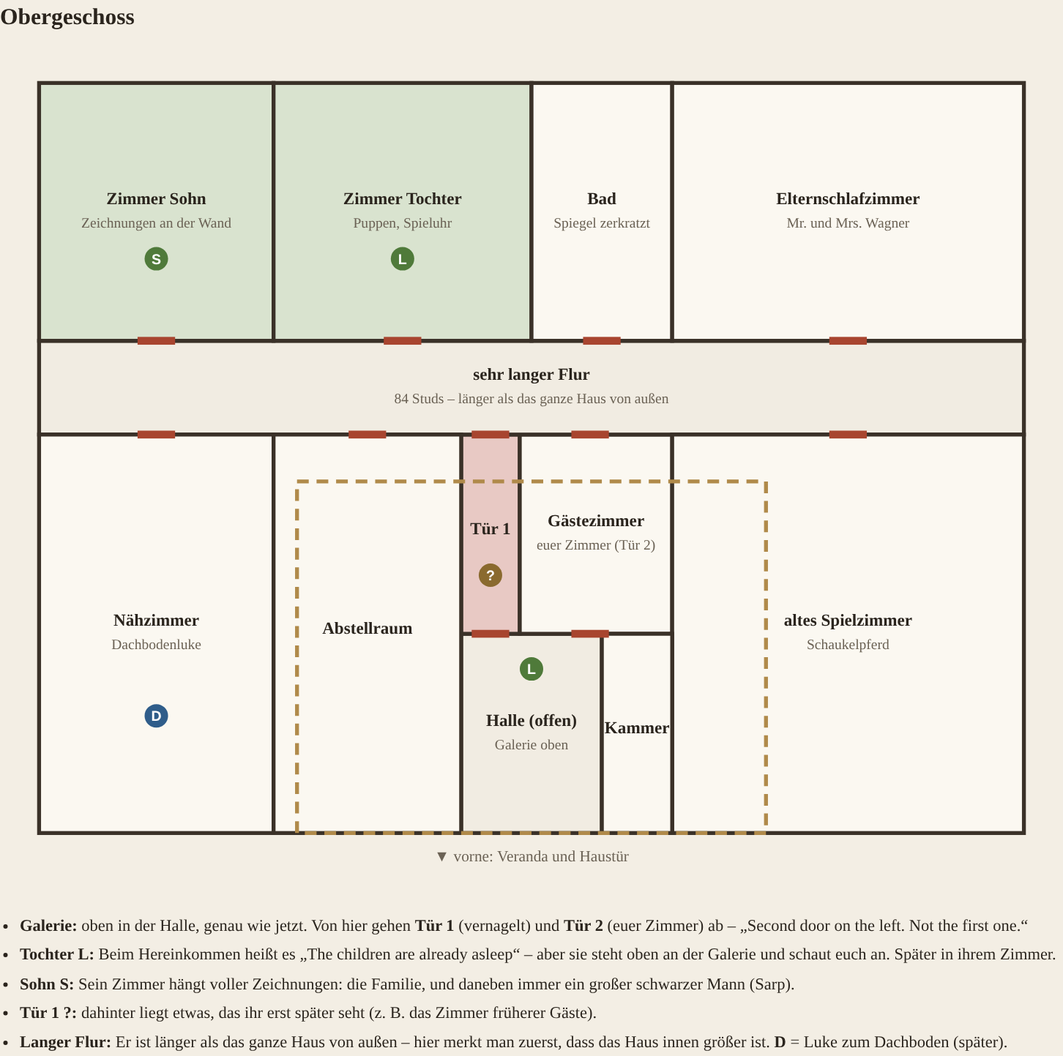
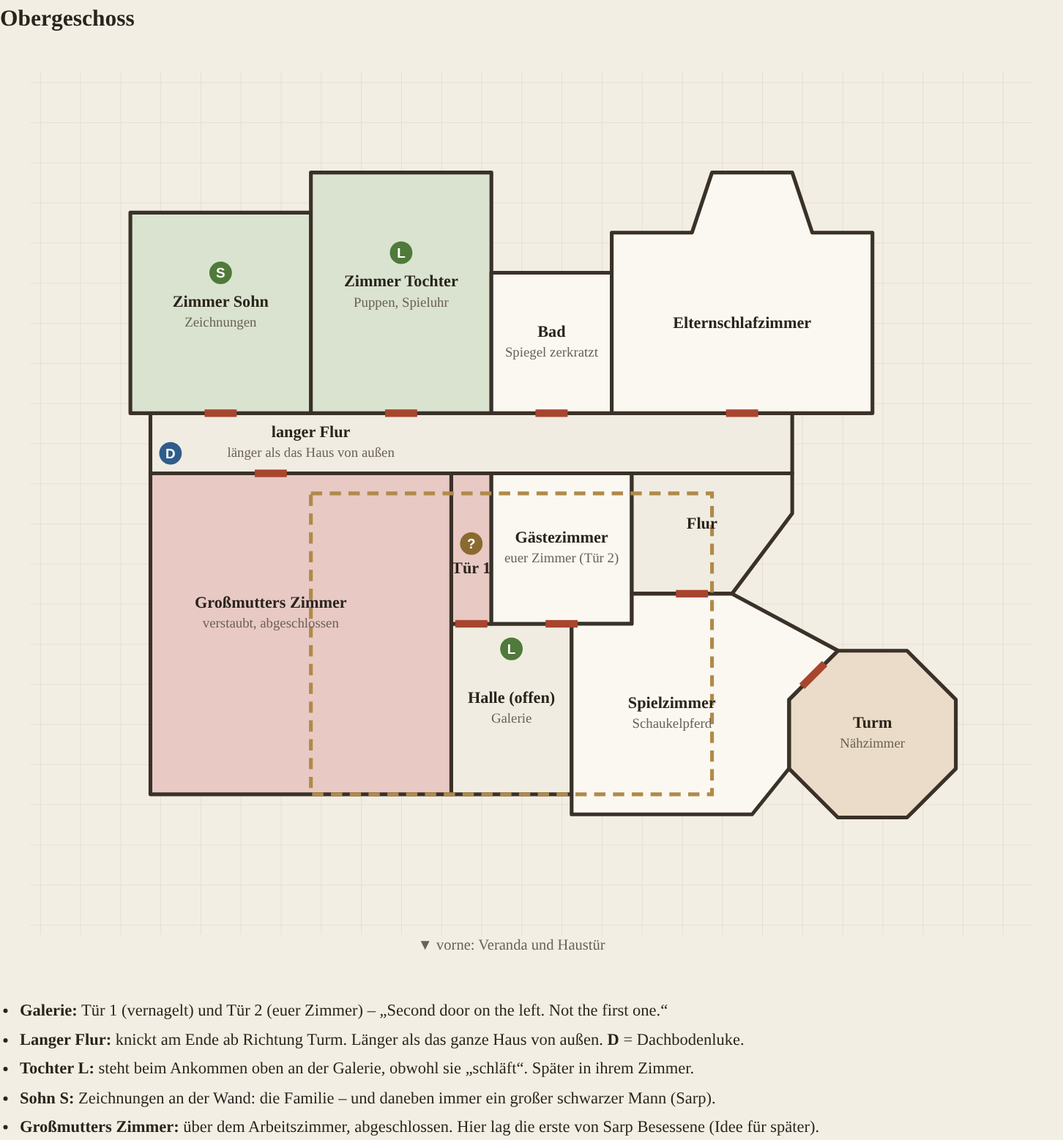
Docs: floor plan v2 with an irregular shape (tower, bays, hexagonal conservatory, round ritual room)
Claude-Session: https://claude.ai/code/session_01GviBXdi7ntk81fPhdjJLgL

Changed region(s): [[0.031, 0.0624, 0.9917, 0.842], [0.0, 0.8732, 0.9607, 0.9979], [0.6818, 0.1247, 0.7438, 0.1559]]

diff --git a/docs/konzept/hausplan.html b/docs/konzept/hausplan.html
@@ -3,12 +3,12 @@
 <title>Hausplan Wagner</title>
 <style>
 :root { --bg:#f3eee4; --ink:#2a241d; --muted:#6b6255; --grid:#e3dccd; --wall:#3a3128; --room:#fbf8f1; --hall:#efe1c4; --open:#f1ece2;
-  --secret:#e8c9c4; --kids:#d9e3cf; --door:#a8452f; --kid:#4f7a3a; --stairs:#2f5d8a; --item:#8a6a2f; --exit:#a8452f; --outer:#b08a4a; }
+  --secret:#e8c9c4; --kids:#d9e3cf; --glass:#d6e6ea; --tower:#eadcc8; --door:#a8452f; --kid:#4f7a3a; --stairs:#2f5d8a; --item:#8a6a2f; --exit:#a8452f; --outer:#b08a4a; }
 @media (prefers-color-scheme: dark) { :root { --bg:#191612; --ink:#ece4d6; --muted:#a89d8c; --grid:#2a251f; --wall:#c9bba4; --room:#221e19;
-  --hall:#3a3020; --open:#1e1a15; --secret:#4a2a26; --kids:#26331f; --door:#d76d52; --kid:#7fb062; --stairs:#6fa3d6; --item:#c9a35a; --exit:#d76d52; --outer:#c9a35a; } }
+  --hall:#3a3020; --open:#1e1a15; --secret:#4a2a26; --kids:#26331f; --glass:#1f3036; --tower:#33291d; --door:#d76d52; --kid:#7fb062; --stairs:#6fa3d6; --item:#c9a35a; --exit:#d76d52; --outer:#c9a35a; } }
 body { margin:0; background:var(--bg); color:var(--ink); font:15px/1.5 Georgia, serif; }
 main { max-width:980px; margin:0 auto; padding:24px 16px 48px; }
-h1 { font-size:28px; margin:0 0 4px; } h2 { font-size:21px; margin:32px 0 8px; }
+h1 { font-size:28px; margin:0 0 4px; } h2 { font-size:21px; margin:28px 0 6px; }
 .lead { color:var(--muted); margin:0 0 16px; }
 .plan svg { width:100%; height:auto; display:block; }
 text.room { font:bold 13px Georgia, serif; fill:var(--ink); text-anchor:middle; }
@@ -19,25 +19,22 @@ text.front { font:12px Georgia, serif; fill:var(--muted); text-anchor:middle; }
 .box { border:1px solid var(--grid); background:var(--room); border-radius:8px; padding:12px 16px; margin:12px 0; }
 .legend span { display:inline-block; margin:0 14px 4px 0; } .sw { display:inline-block; width:14px; height:14px; vertical-align:-2px; margin-right:5px; border:1px solid var(--wall); }
 </style></head><body><main>
-<h1>Haus der Wagners – Bauplan (Entwurf)</h1>
+<h1>Haus der Wagners – Bauplan (Entwurf 2)</h1>
 <p class="lead">Keller, Erdgeschoss, Obergeschoss. Ein Kästchen = 4 Studs, ein Stockwerk ist 10 Studs hoch.</p>
-<div class="box"><b>Innen größer als außen:</b> Von außen bleibt das Haus wie jetzt (40 × 30, gestrichelter Rahmen).
-Wenn die Tür hinter euch zufällt, wird es kurz schwarz, und ihr steht im großen Haus – in einer Eingangshalle, die genau gleich aussieht.
-Erst wenn man weitergeht (Flur, Wohnzimmer, oben der lange Flur), merkt man, dass das Haus innen viel größer ist.
-<br><span style="color:var(--muted)">Andere Möglichkeit: das Haus schon von außen so groß bauen (dann wäre es von außen riesig und der Effekt weg). Ich empfehle die erste Variante.</span></div>
-<div class="legend"><span><i class="sw" style="background:var(--hall)"></i>Eingangshalle</span><span><i class="sw" style="background:var(--kids)"></i>Kinderzimmer</span>
-<span><i class="sw" style="background:var(--secret)"></i>geheim / verboten</span><span><i class="sw" style="background:var(--door);border:0"></i>Tür / Durchgang</span>
+<div class="box"><b>Innen größer als außen:</b> Von außen bleibt das Haus wie jetzt (gestrichelter Rahmen). Wenn die Tür hinter euch zufällt, wird es kurz schwarz,
+und ihr steht im großen Haus – in einer Eingangshalle, die genau gleich aussieht. Je weiter man geht, desto mehr merkt man, wie groß es innen ist.</div>
+<div class="legend"><span><i class="sw" style="background:var(--hall)"></i>Eingangshalle</span><span><i class="sw" style="background:var(--tower)"></i>Turm</span>
+<span><i class="sw" style="background:var(--glass)"></i>Glas</span><span><i class="sw" style="background:var(--kids)"></i>Kinderzimmer</span>
+<span><i class="sw" style="background:var(--secret)"></i>geheim / verboten</span><span><i class="sw" style="background:var(--door);border:0"></i>Tür</span>
 <span><i class="sw" style="border:2px dashed var(--outer);background:none"></i>Größe von außen</span></div>
-<section><h2>Erdgeschoss</h2><div class="plan"><svg viewBox="0 0 816 656" role="img" aria-label="Erdgeschoss"><defs><pattern id="gErd" width="36" height="36" patternUnits="userSpaceOnUse"><path d="M 36 0 L 0 0 0 36" fill="none" stroke="var(--grid)" stroke-width="1"/></pattern></defs><rect x="30" y="30" width="756" height="576" fill="url(#gErd)"/><rect x="354" y="453" width="108" height="153" fill="var(--hall)" stroke="var(--wall)" stroke-width="3"/><text x="408.0" y="523.5" class="room">Eingangshalle</text><text x="408.0" y="541.5" class="sub">wie jetzt</text><rect x="462" y="336" width="324" height="270" fill="var(--room)" stroke="var(--wall)" stroke-width="3"/><text x="624.0" y="465.0" class="room">Wohnzimmer</text><text x="624.0" y="483.0" class="sub">Kamin, verhängte Möbel</text><rect x="516" y="30" width="270" height="306" fill="var(--room)" stroke="var(--wall)" stroke-width="3"/><text x="651.0" y="177.0" class="room">Esszimmer</text><text x="651.0" y="195.0" class="sub">Tisch für 7 Personen</text><rect x="300" y="192" width="216" height="144" fill="var(--room)" stroke="var(--wall)" stroke-width="3"/><text x="408.0" y="258.0" class="room">Küche</text><text x="408.0" y="276.0" class="sub">Kellertür K</text><rect x="300" y="336" width="162" height="117" fill="var(--open)" stroke="var(--wall)" stroke-width="3"/><text x="381.0" y="394.5" class="room">Flur hinten</text><rect x="300" y="30" width="216" height="162" fill="var(--room)" stroke="var(--wall)" stroke-width="3"/><text x="408.0" y="111.0" class="room">Vorratskammer</text><rect x="30" y="300" width="162" height="306" fill="var(--room)" stroke="var(--wall)" stroke-width="3"/><text x="111.0" y="447.0" class="room">Arbeitszimmer</text><text x="111.0" y="465.0" class="sub">Mr. Wagner</text><rect x="192" y="300" width="108" height="306" fill="var(--room)" stroke="var(--wall)" stroke-width="3"/><text x="246.0" y="447.0" class="room">Salon</text><text x="246.0" y="465.0" class="sub">Klavier</text><rect x="30" y="30" width="270" height="198" fill="var(--room)" stroke="var(--wall)" stroke-width="3"/><text x="165.0" y="123.0" class="room">Wintergarten</text><text x="165.0" y="141.0" class="sub">tote Pflanzen</text><rect x="30" y="228" width="270" height="72" fill="var(--open)" stroke="var(--wall)" stroke-width="3"/><text x="165.0" y="264.0" class="room">langer Flur</text><rect x="300" y="453" width="54" height="153" fill="var(--room)" stroke="var(--wall)" stroke-width="3"/><text x="327.0" y="529.5" class="room">WC</text><rect x="228.0" y="336" width="360" height="270" fill="none" stroke="var(--outer)" stroke-width="3" stroke-dasharray="9 6"/><rect x="393.59999999999997" y="603" width="28.8" height="6" fill="var(--door)"/><rect x="459" y="519.5999999999999" width="6" height="28.8" fill="var(--door)"/><rect x="393.59999999999997" y="450" width="28.8" height="6" fill="var(--door)"/><rect x="513" y="249.6" width="6" height="28.8" fill="var(--door)"/><rect x="297" y="249.6" width="6" height="28.8" fill="var(--door)"/><rect x="96.60000000000001" y="297" width="28.8" height="6" fill="var(--door)"/><rect x="297" y="375.59999999999997" width="6" height="28.8" fill="var(--door)"/><rect x="150.60000000000002" y="225" width="28.8" height="6" fill="var(--door)"/><rect x="393.59999999999997" y="189" width="28.8" height="6" fill="var(--door)"/><rect x="312.59999999999997" y="450" width="28.8" height="6" fill="var(--door)"/><rect x="636.6" y="333" width="28.8" height="6" fill="var(--door)"/><rect x="69.6" y="27" width="28.8" height="6" fill="var(--door)"/><rect x="393.59999999999997" y="333" width="28.8" height="6" fill="var(--door)"/><rect x="459" y="375.59999999999997" width="6" height="28.8" fill="var(--door)"/><circle cx="376.5" cy="579" r="9" fill="var(--stairs)"/><text x="376.5" y="583" class="mark">T</text><circle cx="327" cy="291" r="9" fill="var(--stairs)"/><text x="327" y="295" class="mark">K</text><circle cx="84" cy="48" r="9" fill="var(--exit)"/><text x="84" y="52" class="mark">H</text><circle cx="651" cy="255" r="9" fill="var(--item)"/><text x="651" y="259" class="mark">7</text><circle cx="750" cy="471" r="9" fill="var(--item)"/><text x="750" y="475" class="mark">F</text><circle cx="246" cy="480" r="9" fill="var(--kid)"/><text x="246" y="484" class="mark">S</text><text x="408.0" y="628" class="front">▼ vorne: Veranda und Haustür</text></svg></div><ul class="notes"><li><b>Eingangshalle:</b> bleibt genau wie jetzt (12 × 17 Studs). Treppe <b>T</b> links nach oben zur Galerie.</li><li><b>Wohnzimmer:</b> Durchgang rechts aus der Halle. Kamin <b>F</b> (passt zum Schornstein außen), Möbel unter weißen Tüchern.</li><li><b>Küche:</b> Durchgang hinten aus der Halle. Kerzenlicht. Von hier geht die <b>Kellertür K</b> nach unten.</li><li><b>Esszimmer:</b> Langer Tisch <b>7</b>, gedeckt für sieben Personen – die Familie hat aber nur vier, mit euch sechs. Wer ist der siebte?</li><li><b>Salon:</b> Klavier. Hier sitzt der <b>Sohn S</b> beim ersten Rundgang und spielt immer denselben Ton.</li><li><b>Wintergarten:</b> Tote Pflanzen, beschlagene Scheiben. <b>H</b> = Hintertür zum Garten (später wichtig fürs Abhauen).</li><li><b>Gestrichelt:</b> so groß ist das Haus von außen (40 × 30). Innen ist jedes Stockwerk 84 × 64 – also gut doppelt so groß.</li></ul></section><section><h2>Obergeschoss</h2><div class="plan"><svg viewBox="0 0 816 656" role="img" aria-label="Obergeschoss"><defs><pattern id="gObe" width="36" height="36" patternUnits="userSpaceOnUse"><path d="M 36 0 L 0 0 0 36" fill="none" stroke="var(--grid)" stroke-width="1"/></pattern></defs><rect x="30" y="30" width="756" height="576" fill="url(#gObe)"/><rect x="354" y="453" width="108" height="153" fill="var(--open)" stroke="var(--wall)" stroke-width="3"/><text x="408.0" y="523.5" class="room">Halle (offen)</text><text x="408.0" y="541.5" class="sub">Galerie oben</text><rect x="354" y="300" width="45" height="153" fill="var(--secret)" stroke="var(--wall)" stroke-width="3"/><text x="376.5" y="376.5" class="room">Tür 1</text><rect x="399" y="300" width="117" height="153" fill="var(--room)" stroke="var(--wall)" stroke-width="3"/><text x="457.5" y="370.5" class="room">Gästezimmer</text><text x="457.5" y="388.5" class="sub">euer Zimmer (Tür 2)</text><rect x="30" y="228" width="756" height="72" fill="var(--open)" stroke="var(--wall)" stroke-width="3"/><text x="408.0" y="258.0" class="room">sehr langer Flur</text><text x="408.0" y="276.0" class="sub">84 Studs – länger als das ganze Haus von außen</text><rect x="30" y="30" width="180" height="198" fill="var(--kids)" stroke="var(--wall)" stroke-width="3"/><text x="120.0" y="123.0" class="room">Zimmer Sohn</text><text x="120.0" y="141.0" class="sub">Zeichnungen an der Wand</text><rect x="210" y="30" width="198" height="198" fill="var(--kids)" stroke="var(--wall)" stroke-width="3"/><text x="309.0" y="123.0" class="room">Zimmer Tochter</text><text x="309.0" y="141.0" class="sub">Puppen, Spieluhr</text><rect x="408" y="30" width="108" height="198" fill="var(--room)" stroke="var(--wall)" stroke-width="3"/><text x="462.0" y="123.0" class="room">Bad</text><text x="462.0" y="141.0" class="sub">Spiegel zerkratzt</text><rect x="516" y="30" width="270" height="198" fill="var(--room)" stroke="var(--wall)" stroke-width="3"/><text x="651.0" y="123.0" class="room">Elternschlafzimmer</text><text x="651.0" y="141.0" class="sub">Mr. und Mrs. Wagner</text><rect x="516" y="300" width="270" height="306" fill="var(--room)" stroke="var(--wall)" stroke-width="3"/><text x="651.0" y="447.0" class="room">altes Spielzimmer</text><text x="651.0" y="465.0" class="sub">Schaukelpferd</text><rect x="462" y="453" width="54" height="153" fill="var(--room)" stroke="var(--wall)" stroke-width="3"/><text x="489.0" y="529.5" class="room">Kammer</text><rect x="30" y="300" width="180" height="306" fill="var(--room)" stroke="var(--wall)" stroke-width="3"/><text x="120.0" y="447.0" class="room">Nähzimmer</text><text x="120.0" y="465.0" class="sub">Dachbodenluke</text><rect x="210" y="300" width="144" height="306" fill="var(--room)" stroke="var(--wall)" stroke-width="3"/><text x="282.0" y="453.0" class="room">Abstellraum</text><rect x="228.0" y="336" width="360" height="270" fill="none" stroke="var(--outer)" stroke-width="3" stroke-dasharray="9 6"/><rect x="362.09999999999997" y="450" width="28.8" height="6" fill="var(--door)"/><rect x="438.59999999999997" y="450" width="28.8" height="6" fill="var(--door)"/><rect x="105.60000000000001" y="225" width="28.8" height="6" fill="var(--door)"/><rect x="294.59999999999997" y="225" width="28.8" height="6" fill="var(--door)"/><rect x="447.59999999999997" y="225" width="28.8" height="6" fill="var(--door)"/><rect x="636.6" y="225" width="28.8" height="6" fill="var(--door)"/><rect x="636.6" y="297" width="28.8" height="6" fill="var(--door)"/><rect x="105.60000000000001" y="297" width="28.8" height="6" fill="var(--door)"/><rect x="267.6" y="297" width="28.8" height="6" fill="var(--door)"/><rect x="362.09999999999997" y="297" width="28.8" height="6" fill="var(--door)"/><rect x="438.59999999999997" y="297" width="28.8" height="6" fill="var(--door)"/><circle cx="408" cy="480" r="9" fill="var(--kid)"/><text x="408" y="484" class="mark">L</text><circle cx="120" cy="516" r="9" fill="var(--stairs)"/><text x="120" y="520" class="mark">D</text><circle cx="309" cy="165" r="9" fill="var(--kid)"/><text x="309" y="169" class="mark">L</text><circle cx="120" cy="165" r="9" fill="var(--kid)"/><text x="120" y="169" class="mark">S</text><circle cx="376.5" cy="408" r="9" fill="var(--item)"/><text x="376.5" y="412" class="mark">?</text><text x="408.0" y="628" class="front">▼ vorne: Veranda und Haustür</text></svg></div><ul class="notes"><li><b>Galerie:</b> oben in der Halle, genau wie jetzt. Von hier gehen <b>Tür 1</b> (vernagelt) und <b>Tür 2</b> (euer Zimmer) ab – „Second door on the left. Not the first one.“</li><li><b>Tochter L:</b> Beim Hereinkommen heißt es „The children are already asleep“ – aber sie steht oben an der Galerie und schaut euch an. Später in ihrem Zimmer.</li><li><b>Sohn S:</b> Sein Zimmer hängt voller Zeichnungen: die Familie, und daneben immer ein großer schwarzer Mann (Sarp).</li><li><b>Tür 1 ?:</b> dahinter liegt etwas, das ihr erst später seht (z. B. das Zimmer früherer Gäste).</li><li><b>Langer Flur:</b> Er ist länger als das ganze Haus von außen – hier merkt man zuerst, dass das Haus innen größer ist. <b>D</b> = Luke zum Dachboden (später).</li></ul></section><section><h2>Keller</h2><div class="plan"><svg viewBox="0 0 816 656" role="img" aria-label="Keller"><defs><pattern id="gKel" width="36" height="36" patternUnits="userSpaceOnUse"><path d="M 36 0 L 0 0 0 36" fill="none" stroke="var(--grid)" stroke-width="1"/></pattern></defs><rect x="30" y="30" width="756" height="576" fill="url(#gKel)"/><rect x="300" y="300" width="216" height="153" fill="var(--open)" stroke="var(--wall)" stroke-width="3"/><text x="408.0" y="370.5" class="room">Treppe runter</text><text x="408.0" y="388.5" class="sub">steil, aus der Küche</text><rect x="300" y="453" width="216" height="153" fill="var(--room)" stroke="var(--wall)" stroke-width="3"/><text x="408.0" y="523.5" class="room">Vorratskeller</text><text x="408.0" y="541.5" class="sub">Regale, Einmachgläser</text><rect x="516" y="300" width="270" height="306" fill="var(--room)" stroke="var(--wall)" stroke-width="3"/><text x="651.0" y="447.0" class="room">Heizungsraum</text><text x="651.0" y="465.0" class="sub">alter Kessel</text><rect x="30" y="300" width="270" height="306" fill="var(--room)" stroke="var(--wall)" stroke-width="3"/><text x="165.0" y="447.0" class="room">Waschkeller</text><text x="165.0" y="465.0" class="sub">Wäsche auf Leinen</text><rect x="210" y="30" width="396" height="270" fill="var(--secret)" stroke="var(--wall)" stroke-width="3"/><text x="408.0" y="159.0" class="room">geheimer Raum</text><text x="408.0" y="177.0" class="sub">hinter einem Regal – Altar, Zeichen, Kerzen</text><rect x="30" y="30" width="180" height="270" fill="var(--secret)" stroke="var(--wall)" stroke-width="3"/><text x="120.0" y="159.0" class="room">Tunnel</text><text x="120.0" y="177.0" class="sub">führt in den Wald</text><rect x="606" y="30" width="180" height="270" fill="var(--room)" stroke="var(--wall)" stroke-width="3"/><text x="696.0" y="159.0" class="room">Kriechkeller</text><text x="696.0" y="177.0" class="sub">niedrig, dunkel</text><rect x="228.0" y="336" width="360" height="270" fill="none" stroke="var(--outer)" stroke-width="3" stroke-dasharray="9 6"/><rect x="393.59999999999997" y="450" width="28.8" height="6" fill="var(--door)"/><rect x="513" y="375.59999999999997" width="6" height="28.8" fill="var(--door)"/><rect x="297" y="375.59999999999997" width="6" height="28.8" fill="var(--door)"/><rect x="393.59999999999997" y="297" width="28.8" height="6" fill="var(--door)"/><rect x="207" y="150.60000000000002" width="6" height="28.8" fill="var(--door)"/><rect x="603" y="150.60000000000002" width="6" height="28.8" fill="var(--door)"/><circle cx="327" cy="327" r="9" fill="var(--stairs)"/><text x="327" y="331" class="mark">K</text><circle cx="408" cy="309" r="9" fill="var(--item)"/><text x="408" y="313" class="mark">R</text><circle cx="408" cy="138" r="9" fill="var(--item)"/><text x="408" y="142" class="mark">A</text><circle cx="57" cy="57" r="9" fill="var(--exit)"/><text x="57" y="61" class="mark">W</text><text x="408.0" y="628" class="front">▼ vorne: Veranda und Haustür</text></svg></div><ul class="notes"><li><b>Treppe K:</b> von der Kellertür in der Küche steil nach unten.</li><li><b>Regal R:</b> lässt sich zur Seite schieben – dahinter der <b>geheime Raum</b>.</li><li><b>Altar A:</b> Hier verehrt die besessene Familie Sarp: Zeichen an den Wänden, Kerzen, Fotos von früheren Gästen. Ab hier weiß man: Die Wagners sind die Bösen.</li><li><b>Tunnel W:</b> führt raus in den Wald – ein möglicher Fluchtweg am Ende.</li></ul></section>
-<h2>Die Familie im Haus</h2>
+<section><h2>Erdgeschoss</h2><div class="plan"><svg viewBox="0 0 848 750" role="img" aria-label="Erdgeschoss"><defs><pattern id="gEr" width="32" height="32" patternUnits="userSpaceOnUse"><path d="M 32 0 L 0 0 0 32" fill="none" stroke="var(--grid)" stroke-width="1"/></pattern></defs><rect x="24" y="24" width="800" height="688" fill="url(#gEr)"/><polygon points="360.0,464.0 456.0,464.0 456.0,600.0 360.0,600.0" fill="var(--hall)" stroke="var(--wall)" stroke-width="3" stroke-linejoin="round"/><polygon points="312.0,520.0 360.0,520.0 360.0,600.0 312.0,600.0" fill="var(--room)" stroke="var(--wall)" stroke-width="3" stroke-linejoin="round"/><polygon points="296.0,360.0 456.0,360.0 456.0,464.0 360.0,464.0 360.0,520.0 312.0,520.0 312.0,504.0 296.0,504.0" fill="var(--open)" stroke="var(--wall)" stroke-width="3" stroke-linejoin="round"/><polygon points="456.0,360.0 664.0,360.0 664.0,485.6 668.5,485.4 629.4,524.5 629.4,579.5 600.0,616.0 456.0,616.0" fill="var(--room)" stroke="var(--wall)" stroke-width="3" stroke-linejoin="round"/><polygon points="762.5,579.6 723.6,618.5 668.4,618.5 629.5,579.6 629.5,524.4 668.4,485.5 723.6,485.5 762.5,524.4" fill="var(--tower)" stroke="var(--wall)" stroke-width="3" stroke-linejoin="round"/><polygon points="456.0,168.0 520.0,168.0 536.0,120.0 600.0,120.0 616.0,168.0 680.0,168.0 680.0,360.0 456.0,360.0" fill="var(--room)" stroke="var(--wall)" stroke-width="3" stroke-linejoin="round"/><polygon points="296.0,184.0 456.0,184.0 456.0,360.0 296.0,360.0" fill="var(--room)" stroke="var(--wall)" stroke-width="3" stroke-linejoin="round"/><polygon points="344.0,88.0 456.0,88.0 456.0,184.0 344.0,184.0" fill="var(--room)" stroke="var(--wall)" stroke-width="3" stroke-linejoin="round"/><polygon points="136.0,328.0 296.0,328.0 296.0,504.0 136.0,504.0" fill="var(--room)" stroke="var(--wall)" stroke-width="3" stroke-linejoin="round"/><polygon points="104.0,504.0 312.0,504.0 312.0,664.0 168.0,664.0 104.0,600.0" fill="var(--room)" stroke="var(--wall)" stroke-width="3" stroke-linejoin="round"/><polygon points="152.0,264.0 296.0,264.0 296.0,328.0 136.0,328.0 104.0,296.0" fill="var(--open)" stroke="var(--wall)" stroke-width="3" stroke-linejoin="round"/><polygon points="224.0,160.0 176.0,243.1 80.0,243.1 32.0,160.0 80.0,76.9 176.0,76.9" fill="var(--glass)" stroke="var(--wall)" stroke-width="3" stroke-linejoin="round"/><rect x="248" y="360" width="320" height="240" fill="none" stroke="var(--outer)" stroke-width="3" stroke-dasharray="9 6"/><rect x="395.2" y="597" width="25.6" height="6" fill="var(--door)" transform="rotate(0 408 600)"/><rect x="443.2" y="533" width="25.6" height="6" fill="var(--door)" transform="rotate(90 456 536)"/><rect x="395.2" y="461" width="25.6" height="6" fill="var(--door)" transform="rotate(0 408 464)"/><rect x="323.2" y="517" width="25.6" height="6" fill="var(--door)" transform="rotate(0 336 520)"/><rect x="363.2" y="357" width="25.6" height="6" fill="var(--door)" transform="rotate(0 376 360)"/><rect x="443.2" y="261" width="25.6" height="6" fill="var(--door)" transform="rotate(90 456 264)"/><rect x="283.2" y="293" width="25.6" height="6" fill="var(--door)" transform="rotate(90 296 296)"/><rect x="387.2" y="181" width="25.6" height="6" fill="var(--door)" transform="rotate(0 400 184)"/><rect x="283.2" y="421" width="25.6" height="6" fill="var(--door)" transform="rotate(90 296 424)"/><rect x="203.2" y="501" width="25.6" height="6" fill="var(--door)" transform="rotate(0 216 504)"/><rect x="491.2" y="357" width="25.6" height="6" fill="var(--door)" transform="rotate(0 504 360)"/><rect x="636.0" y="501.8" width="25.6" height="6" fill="var(--door)" transform="rotate(-45 648.8 504.8)"/><rect x="131.2" y="245" width="25.6" height="6" fill="var(--door)" transform="rotate(-30 144 248)"/><rect x="27.2" y="149" width="25.6" height="6" fill="var(--door)" transform="rotate(90 40 152)"/><text x="408.0" y="527.0" class="room">Eingangshalle</text><text x="408.0" y="543.0" class="sub">wie jetzt</text><text x="336.0" y="564.0" class="room">WC</text><text x="384" y="416.0" class="room">Flur</text><text x="536" y="483" class="room">Wohnzimmer</text><text x="536" y="499" class="sub">Kamin, Möbel unter Tüchern</text><text x="696.0" y="547.0" class="room">Turmzimmer</text><text x="696.0" y="563.0" class="sub">Lesesessel, Fenster rundum</text><text x="568" y="251" class="room">Esszimmer</text><text x="568" y="267" class="sub">Tisch für 7, Erker</text><text x="376" y="267" class="room">Küche</text><text x="376" y="283" class="sub">Kellertür</text><text x="400.0" y="140.0" class="room">Speisekammer</text><text x="216" y="387" class="room">Salon</text><text x="216" y="403" class="sub">Klavier</text><text x="216" y="571" class="room">Arbeitszimmer</text><text x="216" y="587" class="sub">Mr. Wagner – ragt nach vorne</text><text x="208" y="300" class="room">Flur zum Garten</text><text x="128.0" y="155.0" class="room">Wintergarten</text><text x="128.0" y="171.0" class="sub">Glas, sechseckig</text><circle cx="380.0" cy="552" r="9" fill="var(--stairs)"/><text x="380.0" y="556" class="mark">T</text><circle cx="320" cy="216" r="9" fill="var(--stairs)"/><text x="320" y="220" class="mark">K</text><circle cx="44.0" cy="200" r="9" fill="var(--exit)"/><text x="44.0" y="204" class="mark">H</text><circle cx="568" cy="200" r="9" fill="var(--item)"/><text x="568" y="204" class="mark">7</text><circle cx="648" cy="424" r="9" fill="var(--item)"/><text x="648" y="428" class="mark">F</text><circle cx="184" cy="440" r="9" fill="var(--kid)"/><text x="184" y="444" class="mark">S</text><text x="408" y="724" class="front">▼ vorne: Veranda und Haustür</text></svg></div><ul class="notes"><li><b>Form:</b> Kein Kasten mehr: vorne rechts ein <b>runder Turm</b>, links ragt das Arbeitszimmer mit schräger Ecke nach vorne, hinten ein <b>Erker</b> am Esszimmer und ein <b>sechseckiger Glas-Wintergarten</b>.</li><li><b>Eingangshalle:</b> bleibt genau wie jetzt. Treppe <b>T</b> nach oben zur Galerie.</li><li><b>Turmzimmer:</b> rundes Zimmer mit Fenstern ringsum, geht durch alle Stockwerke.</li><li><b>Esszimmer:</b> Tisch <b>7</b> für sieben Personen – die Familie hat vier, mit euch sechs. Wer ist der siebte?</li><li><b>Salon:</b> Der <b>Sohn S</b> spielt immer denselben Klavierton.</li><li><b>Wintergarten:</b> tote Pflanzen hinter Glas. <b>H</b> = Hintertür (später zum Abhauen).</li><li><b>Gestrichelt:</b> so groß ist das Haus von außen (40 × 30).</li></ul></section><section><h2>Obergeschoss</h2><div class="plan"><svg viewBox="0 0 848 750" role="img" aria-label="Obergeschoss"><defs><pattern id="gOb" width="32" height="32" patternUnits="userSpaceOnUse"><path d="M 32 0 L 0 0 0 32" fill="none" stroke="var(--grid)" stroke-width="1"/></pattern></defs><rect x="24" y="24" width="800" height="688" fill="url(#gOb)"/><polygon points="360.0,464.0 456.0,464.0 456.0,600.0 360.0,600.0" fill="var(--open)" stroke="var(--wall)" stroke-width="3" stroke-linejoin="round"/><polygon points="360.0,344.0 392.0,344.0 392.0,464.0 360.0,464.0" fill="var(--secret)" stroke="var(--wall)" stroke-width="3" stroke-linejoin="round"/><polygon points="392.0,344.0 504.0,344.0 504.0,464.0 392.0,464.0" fill="var(--room)" stroke="var(--wall)" stroke-width="3" stroke-linejoin="round"/><polygon points="120.0,296.0 632.0,296.0 632.0,344.0 120.0,344.0" fill="var(--open)" stroke="var(--wall)" stroke-width="3" stroke-linejoin="round"/><polygon points="504.0,344.0 632.0,344.0 632.0,376.0 584.0,440.0 504.0,440.0" fill="var(--open)" stroke="var(--wall)" stroke-width="3" stroke-linejoin="round"/><polygon points="762.5,579.6 723.6,618.5 668.4,618.5 629.5,579.6 629.5,524.4 668.4,485.5 723.6,485.5 762.5,524.4" fill="var(--tower)" stroke="var(--wall)" stroke-width="3" stroke-linejoin="round"/><polygon points="456.0,464.0 504.0,464.0 504.0,440.0 584.0,440.0 668.5,485.4 629.4,524.5 629.4,579.5 600.0,616.0 456.0,616.0" fill="var(--room)" stroke="var(--wall)" stroke-width="3" stroke-linejoin="round"/><polygon points="104.0,136.0 248.0,136.0 248.0,296.0 104.0,296.0" fill="var(--kids)" stroke="var(--wall)" stroke-width="3" stroke-linejoin="round"/><polygon points="248.0,104.0 392.0,104.0 392.0,296.0 248.0,296.0" fill="var(--kids)" stroke="var(--wall)" stroke-width="3" stroke-linejoin="round"/><polygon points="392.0,184.0 488.0,184.0 488.0,296.0 392.0,296.0" fill="var(--room)" stroke="var(--wall)" stroke-width="3" stroke-linejoin="round"/><polygon points="488.0,152.0 552.0,152.0 568.0,104.0 632.0,104.0 648.0,152.0 696.0,152.0 696.0,296.0 488.0,296.0" fill="var(--room)" stroke="var(--wall)" stroke-width="3" stroke-linejoin="round"/><polygon points="120.0,344.0 360.0,344.0 360.0,600.0 120.0,600.0" fill="var(--secret)" stroke="var(--wall)" stroke-width="3" stroke-linejoin="round"/><rect x="248" y="360" width="320" height="240" fill="none" stroke="var(--outer)" stroke-width="3" stroke-dasharray="9 6"/><rect x="363.2" y="461" width="25.6" height="6" fill="var(--door)" transform="rotate(0 376 464)"/><rect x="435.2" y="461" width="25.6" height="6" fill="var(--door)" transform="rotate(0 448 464)"/><rect x="163.2" y="293" width="25.6" height="6" fill="var(--door)" transform="rotate(0 176 296)"/><rect x="307.2" y="293" width="25.6" height="6" fill="var(--door)" transform="rotate(0 320 296)"/><rect x="427.2" y="293" width="25.6" height="6" fill="var(--door)" transform="rotate(0 440 296)"/><rect x="579.2" y="293" width="25.6" height="6" fill="var(--door)" transform="rotate(0 592 296)"/><rect x="539.2" y="437" width="25.6" height="6" fill="var(--door)" transform="rotate(0 552 440)"/><rect x="636.0" y="501.8" width="25.6" height="6" fill="var(--door)" transform="rotate(-45 648.8 504.8)"/><rect x="203.2" y="341" width="25.6" height="6" fill="var(--door)" transform="rotate(0 216 344)"/><text x="408.0" y="527.0" class="room">Halle (offen)</text><text x="408.0" y="543.0" class="sub">Galerie</text><text x="376" y="424.0" class="room">Tür 1</text><text x="448" y="399.0" class="room">Gästezimmer</text><text x="448" y="415.0" class="sub">euer Zimmer (Tür 2)</text><text x="248" y="315" class="room">langer Flur</text><text x="248" y="331" class="sub">länger als das Haus von außen</text><text x="560" y="388" class="room">Flur</text><text x="696.0" y="547.0" class="room">Turm</text><text x="696.0" y="563.0" class="sub">Nähzimmer</text><text x="536" y="531" class="room">Spielzimmer</text><text x="536" y="547" class="sub">Schaukelpferd</text><text x="176.0" y="211.0" class="room">Zimmer Sohn</text><text x="176.0" y="227.0" class="sub">Zeichnungen</text><text x="320.0" y="195.0" class="room">Zimmer Tochter</text><text x="320.0" y="211.0" class="sub">Puppen, Spieluhr</text><text x="440.0" y="235.0" class="room">Bad</text><text x="440.0" y="251.0" class="sub">Spiegel zerkratzt</text><text x="592" y="228" class="room">Elternschlafzimmer</text><text x="216" y="451" class="room">Großmutters Zimmer</text><text x="216" y="467" class="sub">verstaubt, abgeschlossen</text><circle cx="408" cy="484.0" r="9" fill="var(--kid)"/><text x="408" y="488.0" class="mark">L</text><circle cx="136" cy="328" r="9" fill="var(--stairs)"/><text x="136" y="332" class="mark">D</text><circle cx="320" cy="168" r="9" fill="var(--kid)"/><text x="320" y="172" class="mark">L</text><circle cx="176" cy="184" r="9" fill="var(--kid)"/><text x="176" y="188" class="mark">S</text><circle cx="376" cy="400" r="9" fill="var(--item)"/><text x="376" y="404" class="mark">?</text><text x="408" y="724" class="front">▼ vorne: Veranda und Haustür</text></svg></div><ul class="notes"><li><b>Galerie:</b> Tür 1 (vernagelt) und Tür 2 (euer Zimmer) – „Second door on the left. Not the first one.“</li><li><b>Langer Flur:</b> knickt am Ende ab Richtung Turm. Länger als das ganze Haus von außen. <b>D</b> = Dachbodenluke.</li><li><b>Tochter L:</b> steht beim Ankommen oben an der Galerie, obwohl sie „schläft“. Später in ihrem Zimmer.</li><li><b>Sohn S:</b> Zeichnungen an der Wand: die Familie – und daneben immer ein großer schwarzer Mann (Sarp).</li><li><b>Großmutters Zimmer:</b> über dem Arbeitszimmer, abgeschlossen. Hier lag die erste von Sarp Besessene (Idee für später).</li></ul></section><section><h2>Keller</h2><div class="plan"><svg viewBox="0 0 848 750" role="img" aria-label="Keller"><defs><pattern id="gKe" width="32" height="32" patternUnits="userSpaceOnUse"><path d="M 32 0 L 0 0 0 32" fill="none" stroke="var(--grid)" stroke-width="1"/></pattern></defs><rect x="24" y="24" width="800" height="688" fill="url(#gKe)"/><polyline points="288.0,136.0 216.0,104.0 152.0,136.0 104.0,88.0 56.0,56.0" fill="none" stroke="var(--wall)" stroke-width="38" stroke-linejoin="round" stroke-linecap="round"/><polyline points="288.0,136.0 216.0,104.0 152.0,136.0 104.0,88.0 56.0,56.0" fill="none" stroke="var(--secret)" stroke-width="32" stroke-linejoin="round" stroke-linecap="round"/><polygon points="296.0,264.0 392.0,264.0 392.0,360.0 296.0,360.0" fill="var(--open)" stroke="var(--wall)" stroke-width="3" stroke-linejoin="round"/><polygon points="296.0,360.0 456.0,360.0 472.0,472.0 312.0,488.0" fill="var(--room)" stroke="var(--wall)" stroke-width="3" stroke-linejoin="round"/><polygon points="456.0,232.0 600.0,200.0 632.0,376.0 472.0,424.0 456.0,360.0" fill="var(--room)" stroke="var(--wall)" stroke-width="3" stroke-linejoin="round"/><polygon points="152.0,264.0 296.0,264.0 296.0,440.0 184.0,472.0 136.0,376.0" fill="var(--room)" stroke="var(--wall)" stroke-width="3" stroke-linejoin="round"/><polygon points="461.0,158.8 438.2,198.2 398.8,221.0 353.2,221.0 313.8,198.2 291.0,158.8 291.0,113.2 313.8,73.8 353.2,51.0 398.8,51.0 438.2,73.8 461.0,113.2" fill="var(--secret)" stroke="var(--wall)" stroke-width="3" stroke-linejoin="round"/><polygon points="360.0,216.0 392.0,216.0 392.0,264.0 360.0,264.0" fill="var(--secret)" stroke="var(--wall)" stroke-width="3" stroke-linejoin="round"/><polygon points="600.0,200.0 744.0,232.0 728.0,408.0 632.0,376.0" fill="var(--room)" stroke="var(--wall)" stroke-width="3" stroke-linejoin="round"/><rect x="248" y="360" width="320" height="240" fill="none" stroke="var(--outer)" stroke-width="3" stroke-dasharray="9 6"/><rect x="363.2" y="261" width="25.6" height="6" fill="var(--door)" transform="rotate(0 376 264)"/><rect x="331.2" y="357" width="25.6" height="6" fill="var(--door)" transform="rotate(0 344 360)"/><rect x="443.2" y="293" width="25.6" height="6" fill="var(--door)" transform="rotate(80 456 296)"/><rect x="283.2" y="325" width="25.6" height="6" fill="var(--door)" transform="rotate(90 296 328)"/><rect x="603.2" y="277" width="25.6" height="6" fill="var(--door)" transform="rotate(80 616 280)"/><text x="344.0" y="307.0" class="room">Treppe</text><text x="344.0" y="323.0" class="sub">aus der Küche</text><text x="384" y="419" class="room">Vorratskeller</text><text x="384" y="435" class="sub">Regale, Gläser</text><text x="536" y="307" class="room">Heizungsraum</text><text x="536" y="323" class="sub">alter Kessel</text><text x="216" y="355" class="room">Waschkeller</text><text x="216" y="371" class="sub">Leinen</text><text x="376.0" y="131.0" class="room">Ritualraum</text><text x="376.0" y="147.0" class="sub">rund, Altar, Zeichen</text><text x="376.0" y="244.0" class="room"></text><text x="680" y="299" class="room">Kriechkeller</text><text x="680" y="315" class="sub">niedrig</text><circle cx="320" cy="288" r="9" fill="var(--stairs)"/><text x="320" y="292" class="mark">K</text><circle cx="376" cy="240" r="9" fill="var(--item)"/><text x="376" y="244" class="mark">R</text><circle cx="376" cy="112" r="9" fill="var(--item)"/><text x="376" y="116" class="mark">A</text><circle cx="56" cy="56" r="9" fill="var(--exit)"/><text x="56" y="60" class="mark">W</text><text x="408" y="724" class="front">▼ vorne: Veranda und Haustür</text></svg></div><ul class="notes"><li><b>Form:</b> Der Keller ist unregelmäßig wie ein alter Gewölbekeller; der Geheimraum ist <b>rund</b>.</li><li><b>Regal R:</b> lässt sich verschieben – dahinter ein enger Gang zum <b>Ritualraum</b>.</li><li><b>Altar A:</b> Zeichen an den Wänden, Kerzen, Fotos früherer Gäste. Ab hier weiß man: Die Wagners sind die Bösen.</li><li><b>Tunnel W:</b> windet sich vom Ritualraum hinaus in den Wald – ein möglicher Fluchtweg.</li></ul></section>
+<h2>Die Familie</h2>
 <ul class="notes">
 <li><b>Mrs. Wagner (Margaret)</b> – meistens in der Küche oder im Esszimmer, mit Kerze.</li>
-<li><b>Mr. Wagner (Richard)</b> – im Arbeitszimmer, schließt sich ein. Er scheint als Einziger noch ein bisschen gegen das Besessensein anzukämpfen.</li>
-<li><b>Tochter (Vorschlag: Lucy, ca. 12)</b> – steht beim Ankommen oben an der Galerie, obwohl sie „schläft“. Redet leise, lächelt wie ihre Mutter.</li>
-<li><b>Sohn (Vorschlag: Tommy, ca. 7)</b> – spielt im Salon immer denselben Klavierton, malt Bilder von Sarp.</li>
+<li><b>Mr. Wagner (Richard)</b> – im Arbeitszimmer, schließt sich ein. Kämpft als Einziger noch ein bisschen gegen das Besessensein an.</li>
+<li><b>Lucy (ca. 12)</b> – steht beim Ankommen oben an der Galerie. Lächelt wie ihre Mutter.</li>
+<li><b>Tommy (ca. 7)</b> – spielt im Salon immer denselben Klavierton, malt Bilder von Sarp.</li>
 </ul>
-<h2>Die Geschichte dahinter</h2>
-<p>Sarp ist ein Dämon. Die ganze Familie Wagner ist von ihm besessen – deshalb sind sie alle so komisch.
-Zuerst glaubt man, Sarp ist der Böse und die Familie hat Angst vor ihm. Im Laufe der Geschichte merkt man: Die Wagners gehören zu ihm.
-Am Ende muss man vor ihnen fliehen (z. B. durch den Tunnel im Keller oder die Hintertür).</p>
+<h2>Die Geschichte</h2>
+<p>Sarp ist ein Dämon, die Familie Wagner ist von ihm besessen. Zuerst wirkt Sarp wie der Böse – dann merkt man, dass die Wagners zu ihm gehören. Am Ende muss man fliehen.</p>
 </main></body></html>
